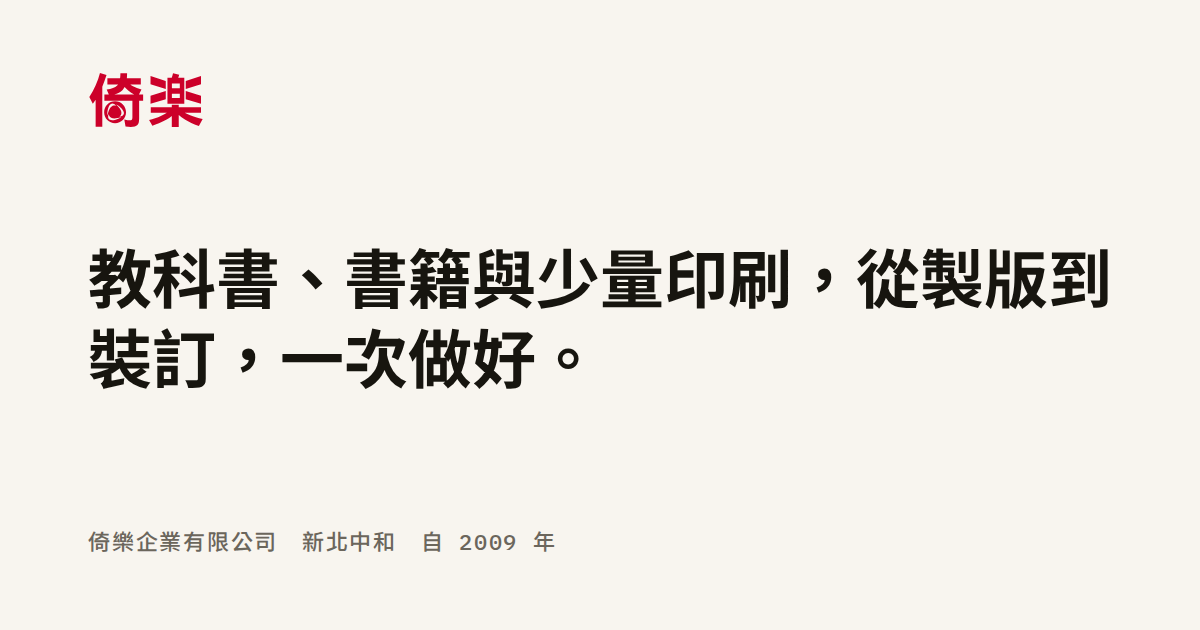
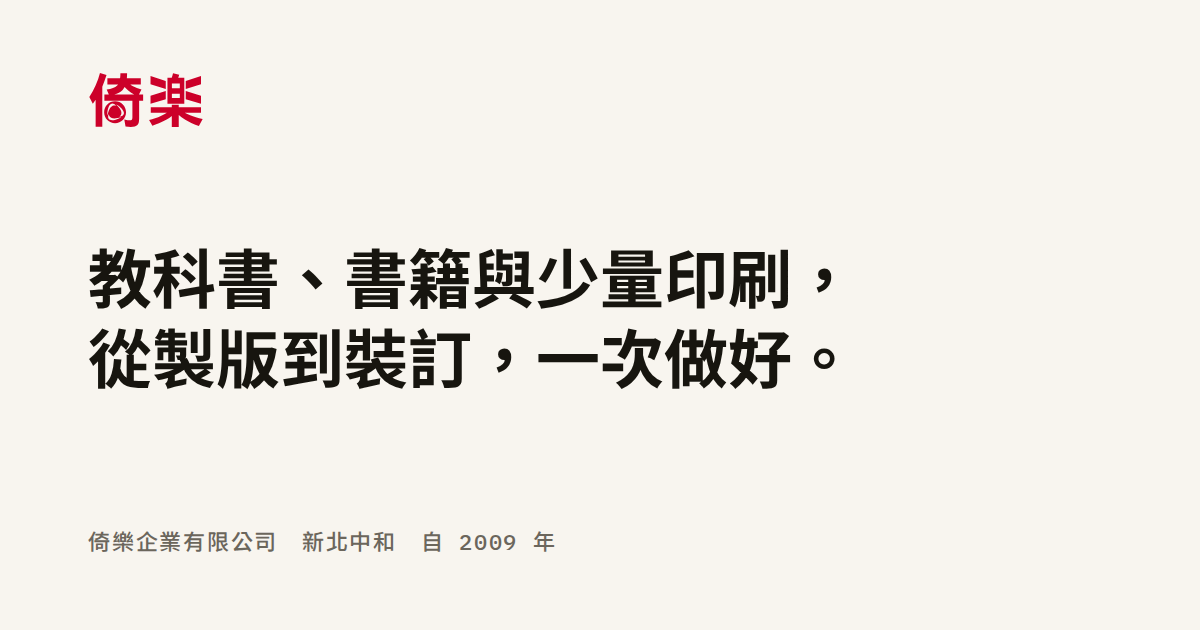
docs: QA report for the deploy gate; phrase-aware OG image
Claude-Session: https://claude.ai/code/session_01Jb5HtueaGf8PPbV515p3T2

Changed region(s): [[0.0617, 0.5127, 0.7092, 0.6333], [0.7092, 0.3921, 0.925, 0.5127]]

diff --git a/docs/04-qa-report.md b/docs/04-qa-report.md
@@ -1,0 +1,32 @@
+# QA 報告（Deploy Gate）— 2026-09-15
+
+對象：`claude/laughing-ramanujan-gq3zye` 分支最新 commit（見 PR）。所有檢查都可用 `npm test`、`npm run test:screens`、`npm run lighthouse` 重跑。
+
+| Gate | 結果 | 證據 |
+| --- | --- | --- |
+| Build PASS | ✅ | `astro check` 0 errors；`astro build` 12 頁（含 `og-template`、`404`） |
+| Tests PASS | ✅ | `check:fonts` 無缺字；`test:links` 站內連結／錨點／資產全部存在；`test:html`（html-validate）0 錯誤；`test:form` 66 個檢查全過（空白送出錯誤與 focus、電話或 Email 擇一、內容組合、mailto 編碼、複製、帶入詢價、手機收合、無 JS 退回原生 mailto） |
+| Responsive PASS | ✅ | 375／390／768／1280／1440 × 11 頁 + 手機選單開啟 = 66 張截圖（`qa/screenshots/`），無水平溢出 |
+| Links PASS | ✅ | `plannedPages` 已清空，連結檢查為嚴格模式 |
+| Form PASS | ✅ | 見 `test:form`；送出後顯示內容預覽、複製鈕、Email／電話 fallback |
+| Accessibility | ✅ | axe（`@axe-core/playwright`）11 頁 × 桌機／手機／選單開啟：serious／critical 0；Lighthouse Accessibility 100；skip link、focus-visible、focus trap、`prefers-reduced-motion` 皆有處理 |
+| SEO PASS | ✅ | 每頁唯一 `h1`、唯一 title／description、canonical、OG（含 1200×630 `og.png`）、`sitemap-index.xml`（10 個 URL，不含 og-template／404）、`robots.txt`、JSON-LD（Organization+LocalBusiness、WebSite、Service、BreadcrumbList、FAQPage）；Lighthouse SEO 100 |
+| Console 無重大 Error | ✅ | 截圖與 a11y 流程皆收集 console error／warning：0（`/contact/` 的 Google 地圖 iframe 在本工作環境無法連線，外部資源失敗不計入，正式環境可載入） |
+| Mobile PASS | ✅ | 375 寬第一屏可見 H1 與「詢價」；手機選單（開關、Esc、focus trap、背景鎖定）；tap target ≥ 44px |
+| Existing analytics preserved | ✅（無） | 舊站沒有任何 analytics；Google Search Console 驗證 meta 保留於每一頁（11／11 可索引頁） |
+| Existing important URLs preserved | ✅ | 舊站只有 `/`；新首頁保留舊錨點 `#products` `#process` `#why` `#about` `#contact`；`www` → apex 301 由 GitHub Pages 維持 |
+| Company information verified | ✅ | 名稱、地址、電話、Email、營業時間、成立年份、設備、紙張、裝訂、加工、起印量、試算公式逐字對照 `docs/01-audit.md` §4.1；禁用字眼（24 年、0.3%、圓背、布面、書匣、職人、收藏級）全站 0 筆 |
+| Performance | ✅ | Lighthouse（mobile 模擬）首頁 97／100／100／100，詢價頁 99／100／100／100；CLS 0.000；LCP 2.4s／2.0s（模擬 4G）；最大頁面 JS 2.5KB gzip；自建字型三檔 210KB（400/500/700 subset）+ mono 29KB |
+
+## 視覺 Review 紀錄（設計負責人）
+
+- Hero、事實條、我要印什麼、流程 scroll 序列（桌機 sticky 兩欄／手機 sticky 舞台）、為什麼找倚樂、規格卡、關於摘要、ContactCta、Footer 逐一以 1280／375 截圖檢視。
+- 修正回合：中文標題斷行（`<Phrased>` 片語控制，含 U+200B 手動斷點）、scroll 舞台桌機置中與放大、手機舞台裁切置中、手機無 JS 導覽、OG 圖標題斷行。
+- 保留決定：Hero 紙張底部的印刷色條（四製程色的第二個出現位置，已寫進 spec §1）。
+
+## 已知限制與待老闆確認
+
+- 表單仍以 `mailto:` 送出（靜態託管、無後端）；已加上內容預覽、複製、Email／電話 fallback。若要改成直接送信，需要一個後端（Cloudflare Worker 或 Supabase Edge Function + Resend），我可以再做。
+- 沒有真實成品照片；作品展示以「常見做法」規格卡呈現，`SpecSheet`／頁面結構已可直接加照片。
+- `docs/01-audit.md` §4.2 的待確認事實（24 年、瑕疵率、精裝、海外物流、平面設計範圍）新版採保守寫法。
+- Google Analytics：舊站沒有；若要加 GA4，提供 Measurement ID 即可加到 `Base.astro`。
